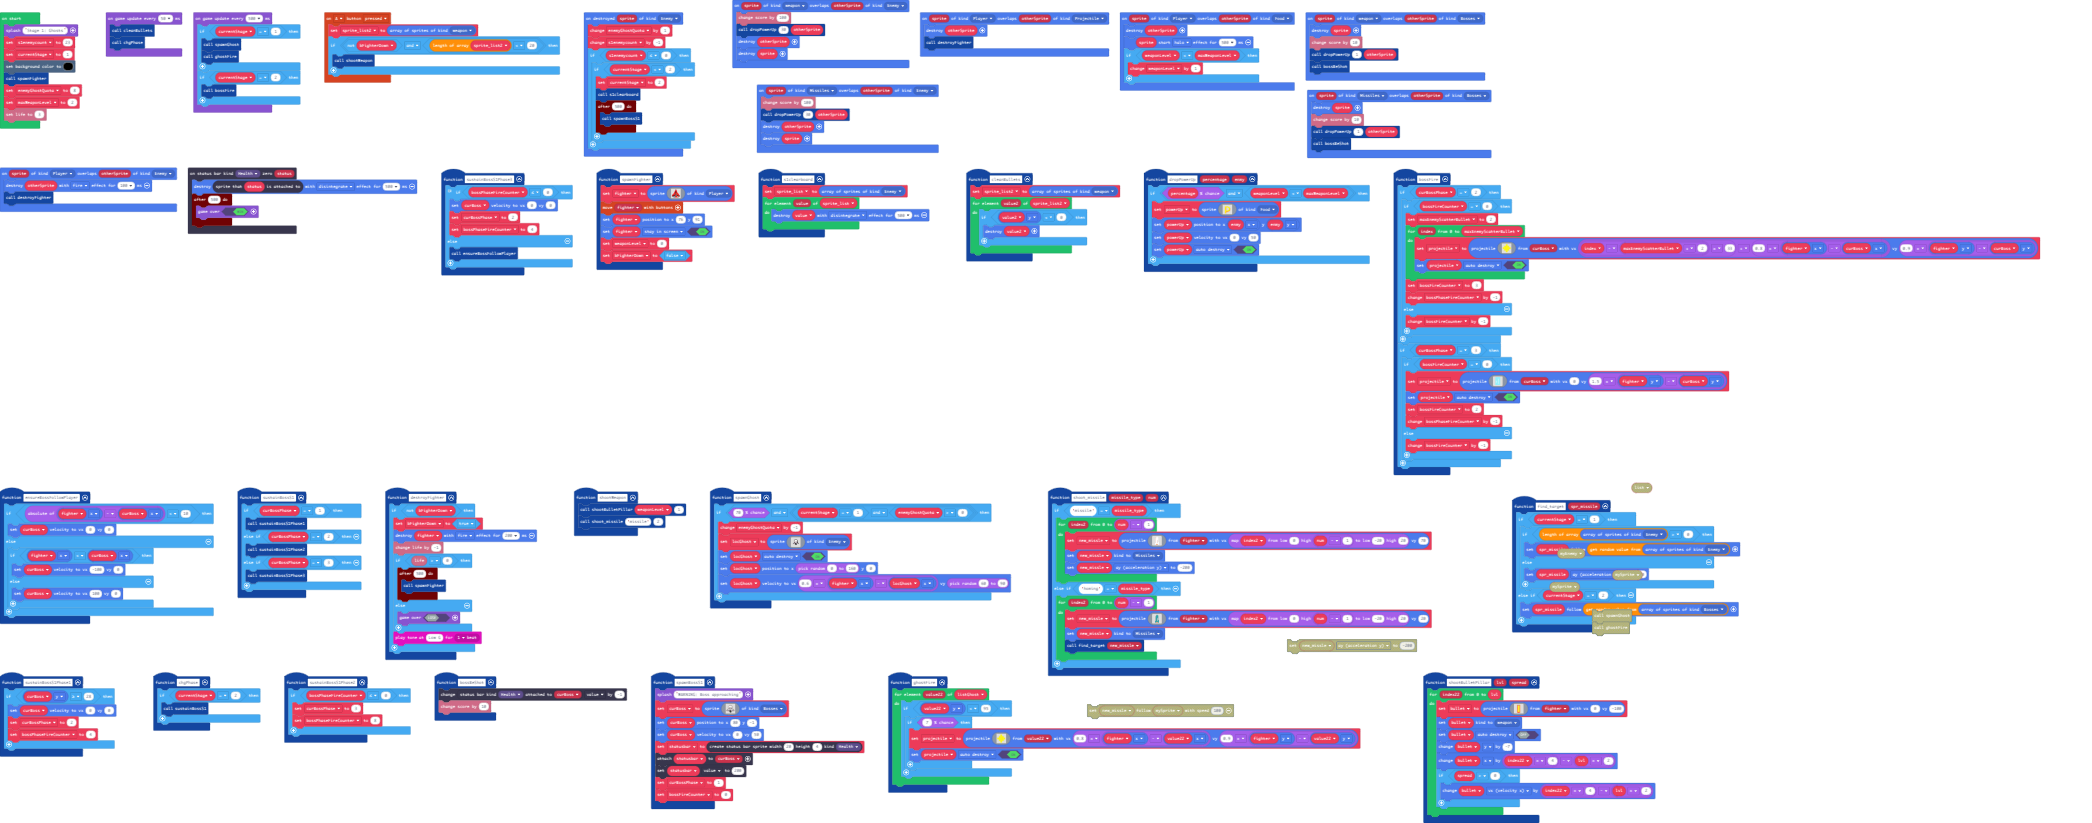
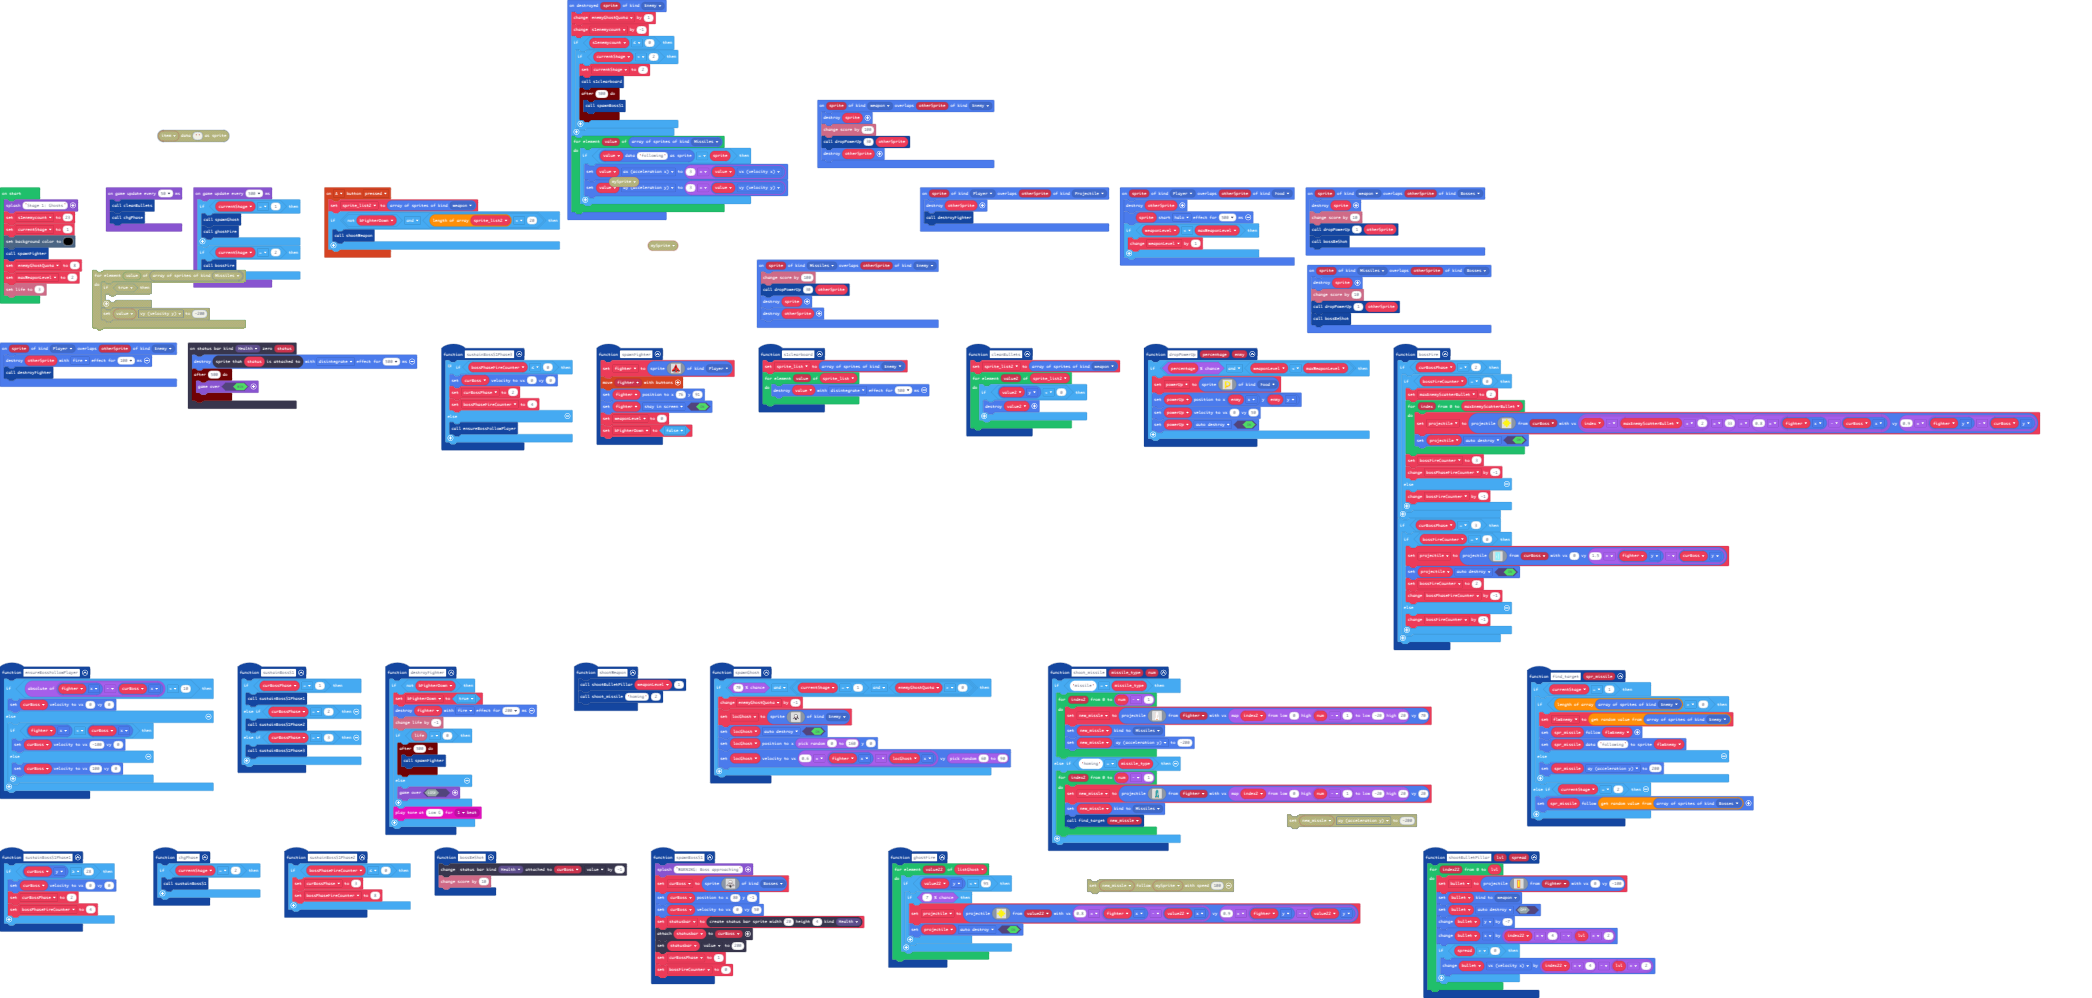
first working homing missile

diff --git a/main.ts b/main.ts
@@ -4,10 +4,10 @@ namespace SpriteKind {
     export const Missiles = SpriteKind.create()
 }
 sprites.onOverlap(SpriteKind.weapon, SpriteKind.Enemy, function (sprite, otherSprite) {
+    sprite.destroy()
     info.changeScoreBy(100)
     dropPowerUp(30, otherSprite)
     otherSprite.destroy()
-    sprite.destroy()
 })
 function sustainBossS1Phase3 () {
     // if already finished several shots, change back to phase-2;
@@ -185,7 +185,7 @@ function destroyFighter () {
 }
 function shootWeapon () {
     shootBulletPillar(weaponLevel, 1)
-    shoot_missile("missile", 2)
+    shoot_missile("homing", 2)
 }
 statusbars.onZero(StatusBarKind.Health, function (status) {
     status.spriteAttachedTo().destroy(effects.disintegrate, 500)
@@ -271,8 +271,8 @@ function shoot_missile (missile_type: string, num: number) {
 sprites.onOverlap(SpriteKind.Missiles, SpriteKind.Enemy, function (sprite, otherSprite) {
     info.changeScoreBy(100)
     dropPowerUp(30, otherSprite)
-    otherSprite.destroy()
     sprite.destroy()
+    otherSprite.destroy()
 })
 sprites.onOverlap(SpriteKind.Player, SpriteKind.Projectile, function (sprite, otherSprite) {
     otherSprite.destroy()
@@ -317,6 +317,12 @@ sprites.onDestroyed(SpriteKind.Enemy, function (sprite) {
             timer.after(500, function () {
                 spawnBossS1()
             })
+        }
+    }
+    for (let value of sprites.allOfKind(SpriteKind.Missiles)) {
+        if (sprites.readDataSprite(value, "following") == sprite) {
+            value.ax = 3 * value.vx
+            value.ay = 3 * value.vy
         }
     }
 })
@@ -400,7 +406,9 @@ function ghostFire () {
 function find_target (spr_missile: Sprite) {
     if (currentStage == 1) {
         if (sprites.allOfKind(SpriteKind.Enemy).length > 0) {
-            spr_missile.follow(sprites.allOfKind(SpriteKind.Enemy)._pickRandom())
+            flwEnemy = sprites.allOfKind(SpriteKind.Enemy)._pickRandom()
+            spr_missile.follow(flwEnemy)
+            sprites.setDataSprite(spr_missile, "following", flwEnemy)
         } else {
             spr_missile.ay = 200
         }
@@ -442,6 +450,7 @@ sprites.onOverlap(SpriteKind.Player, SpriteKind.Enemy, function (sprite, otherSp
     destroyFighter()
 })
 let bullet: Sprite = null
+let flwEnemy: Sprite = null
 let statusbar: StatusBarSprite = null
 let new_missle: Sprite = null
 let locGhost: Sprite = null
